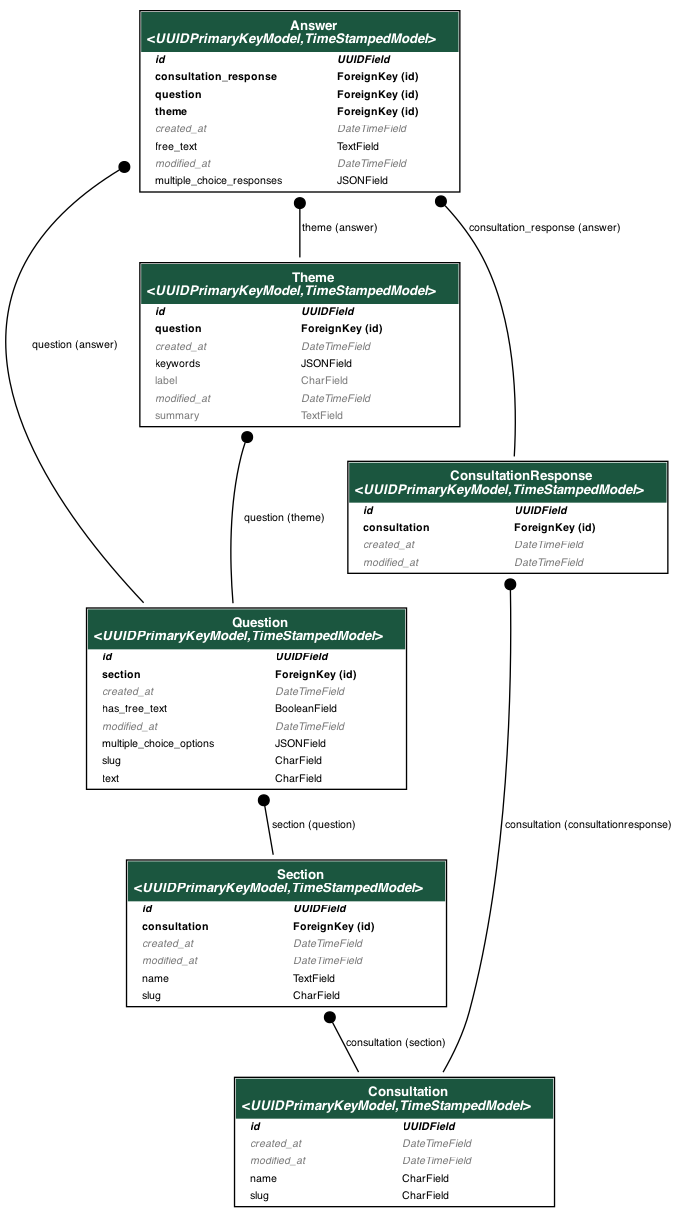
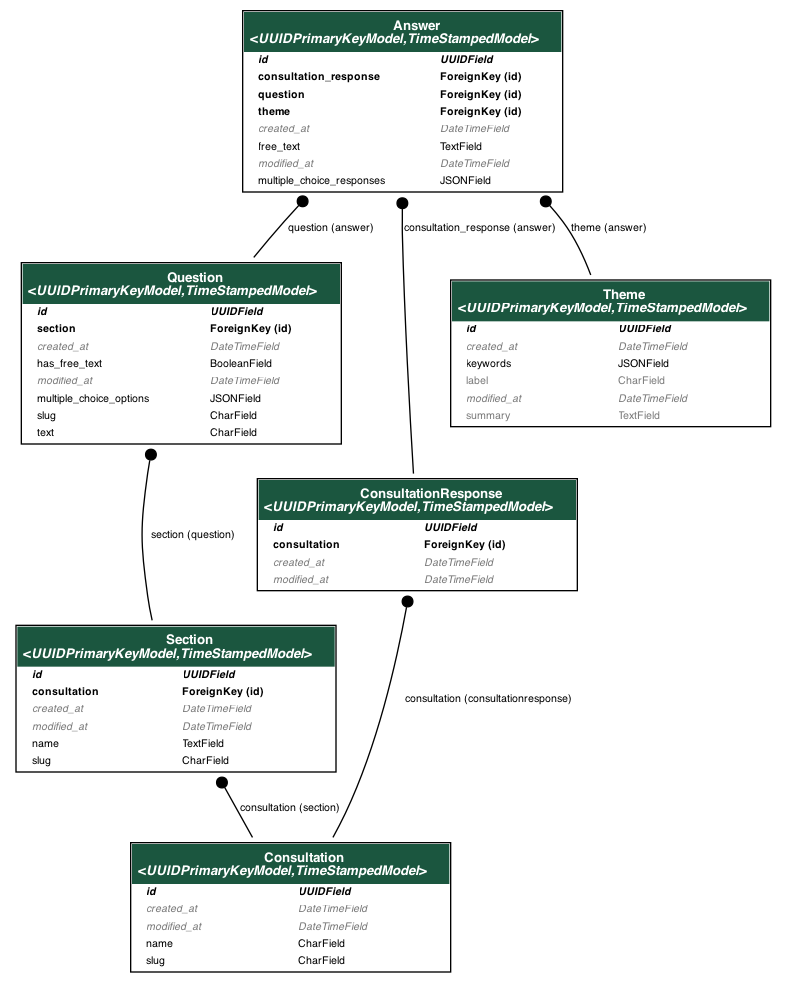
Start saving without the extra question field.

Changed region(s): [[0.0, 0.0, 0.9825, 1.0], [0.7368, 0.6104, 0.7675, 0.6409]]

diff --git a/consultation_analyser/consultations/ml_pipeline.py b/consultation_analyser/consultations/ml_pipeline.py
@@ -21,7 +21,7 @@ def get_embeddings_for_question(
     return embeddings
 
 
-def get_topics(free_text_responses_list: List, embeddings: np.ndarray) -> BERTopic:
+def get_topic_model(free_text_responses_list: List, embeddings: np.ndarray) -> BERTopic:
     umap_model = UMAP(n_neighbors=15, n_components=5, min_dist=0.0, metric="cosine", random_state=12)
     hdbscan_model = HDBSCAN(
         min_cluster_size=3, metric="euclidean", cluster_selection_method="eom", prediction_data=True
@@ -56,11 +56,63 @@ def save_themes_to_answers(topic_model: BERTopic, question_id: UUID, answers_qs:
         answer.save()
 
 
+def get_answers_and_topics(topic_model: BERTopic, answers_qs: QuerySet) -> None:
+    # Answers need to be in the same order
+    free_text_responses = list(answers_qs.values_list("free_text", flat=True))
+    answers_id_list = answers_qs.values_list("id", flat=True)
+    # Assign topics to answers
+    answers_df = topic_model.get_document_info(free_text_responses)
+    answers_df["id"] = answers_id_list
+    # Join DFs
+    return answers_df
+
+
+def save_answer_theme(row):  # Row in df
+    answer_id = row.id
+    topic_keywords = row.Representation
+    topic_label = row.Name
+    answer = models.Answer.objects.get(answer_id=answer_id)
+    question = answer.question
+    theme_qs = models.Theme.objects.filter(answer__question=question, keywords=topic_keywords, label=topic_label)
+    if theme_qs.exists():
+        theme = theme_qs.first()
+    else:
+        theme = models.Theme(keywords=topic_keywords, label=topic_label)
+        theme.save()
+    answer.theme = theme
+    answer.save()
+    return answer
+
+
+# # # Now try without having a separate question field
+# # def get_answers_and_themes(answers_qs)
+
+# q = models.Theme.objects.filter(answer__question_id="175a0d94-ed55-4b8e-a666-fbb6419924a7")
+
+
+# def save_answers_themes(topic_model, answers_qs):
+#     question = answers_qs.first().question
+#     free_text_responses = list(answers_qs.values_list("free_text", flat=True))
+#     answers_id_list = answers_qs.values_list("id", flat=True)
+#     answers_df = topic_model.get_document_info(free_text_responses)
+#     # Answers must be in the same order
+#     answers_df["id"] = answers_id_list
+#     topic_df = topic_model.get_topic_info()
+#     # join answers and topic df -
+#     for row in answers_df.itertuples():
+#         # Check if this theme exists for this question, if not, create it
+#         theme = models.Theme.objects.get(question__id=question_id, label=row.Name)
+#         answer = models.Answer.objects.get(id=row.id)
+#         answer.theme = theme
+#         answer.save()
+
+
 def get_themes_for_question(question_id: UUID) -> None:
     answers_qs = models.Answer.objects.filter(question__id=question_id).order_by("created_at")
     free_text_responses = list(answers_qs.values_list("free_text", flat=True))
     embeddings = get_embeddings_for_question(free_text_responses)
-    topic_model = get_topics(free_text_responses, embeddings)
+    topic_model = get_topic_model(free_text_responses, embeddings)
+
     save_themes(topic_model, question_id)
     save_themes_to_answers(topic_model, question_id, answers_qs)
 

diff --git a/consultation_analyser/consultations/models.py b/consultation_analyser/consultations/models.py
@@ -58,7 +58,6 @@ class ConsultationResponse(UUIDPrimaryKeyModel, TimeStampedModel):
 
 
 class Theme(UUIDPrimaryKeyModel, TimeStampedModel):
-    question = models.ForeignKey(Question, on_delete=models.CASCADE, null=True)
     label = models.CharField(max_length=256, blank=True)
     summary = models.TextField(blank=True)
     keywords = models.JSONField(default=list)
